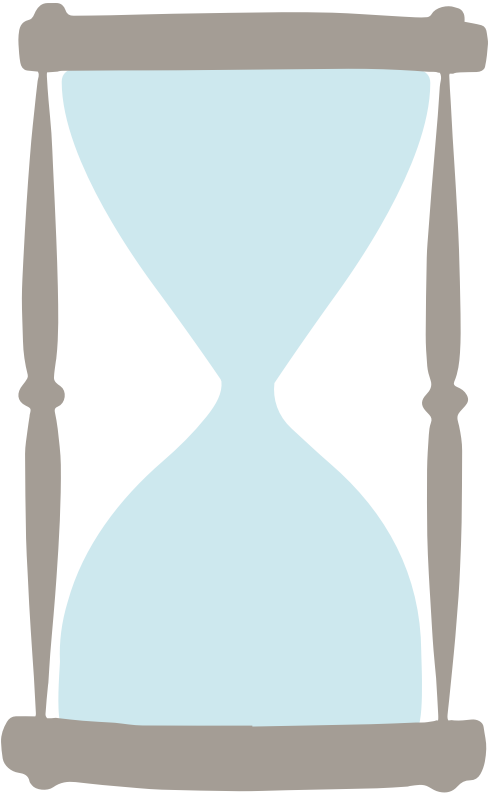
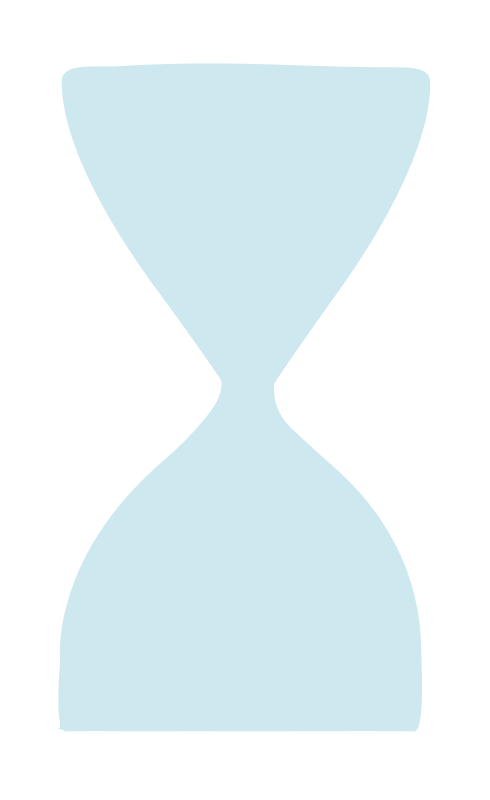
Imported new hourglass, resized. Need to check on iPad.

Changed region(s): [[0.0, 0.0, 1.0, 1.0]]

diff --git a/www/css/pomodoro.css b/www/css/pomodoro.css
@@ -130,7 +130,7 @@
 
 
 #backHourglass {
-    width: 170px;
+    width: 134px;
     left:0;
     right:0;
     top: 10%;
@@ -140,7 +140,7 @@
 }
 
 #frontHourglass {
-    width: 170px;
+    width: 134px;
     left:0;
     right:0;
     top: 10%;
